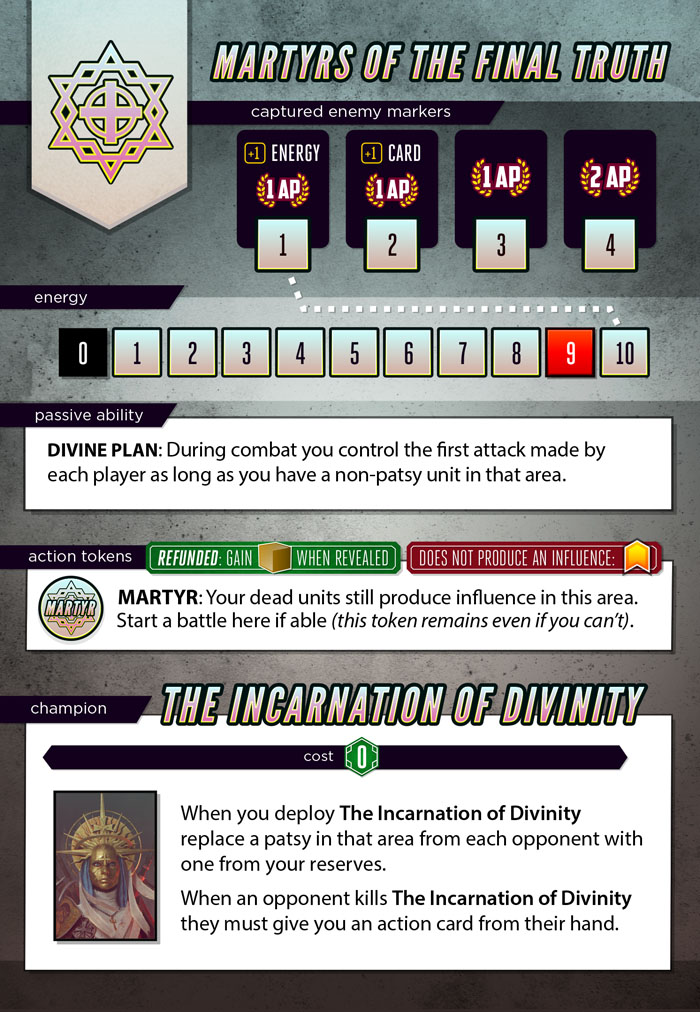
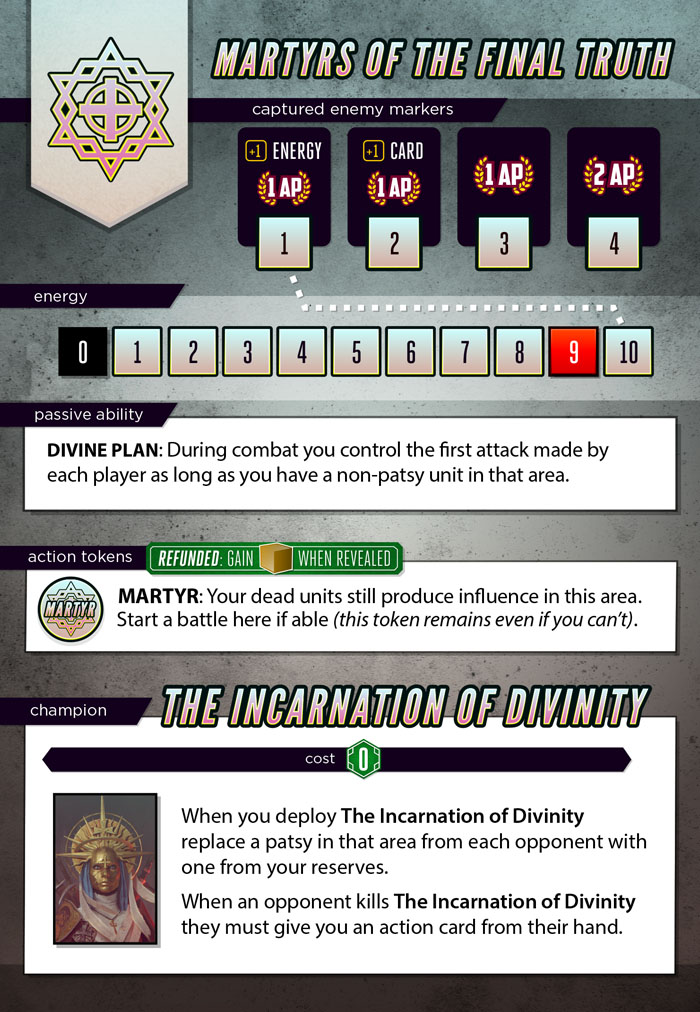
Tweak Martyrs: Martry token now produces influence

diff --git a/server/classes/factions/Martyrs.js b/server/classes/factions/Martyrs.js
@@ -24,7 +24,7 @@ class Martyrs extends Faction {
         this.tokens['martyr'] = {
             count: 2,
             data: {
-                influence: 0,
+                influence: 1,
                 type: 'martyr',
                 resource: 1,
                 cost: 0,
